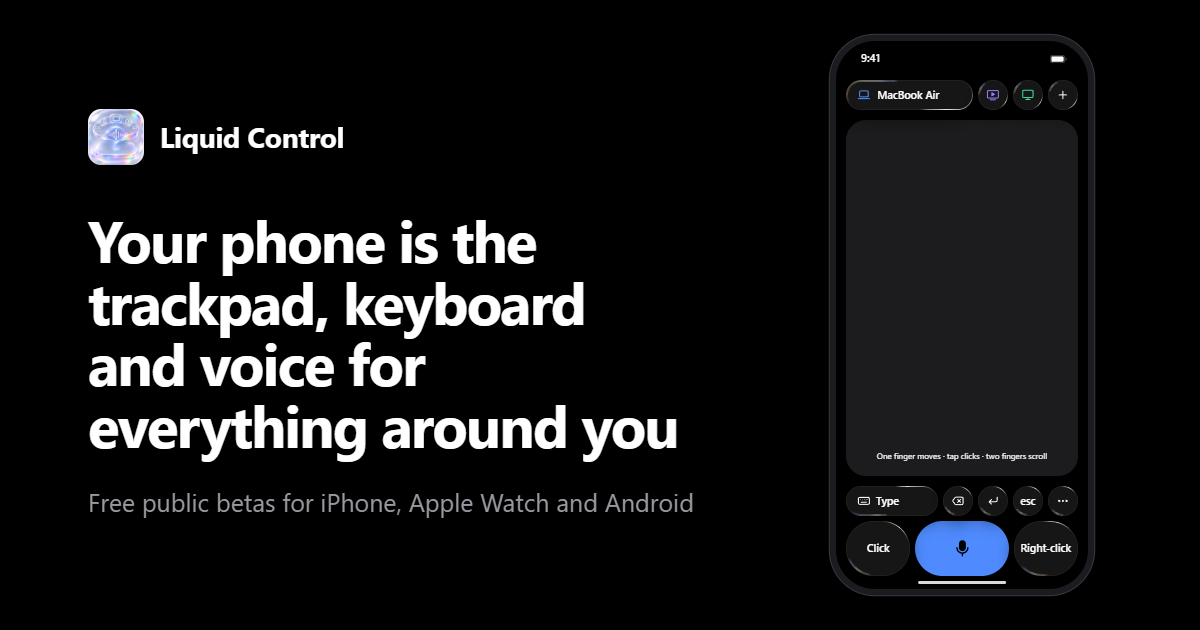
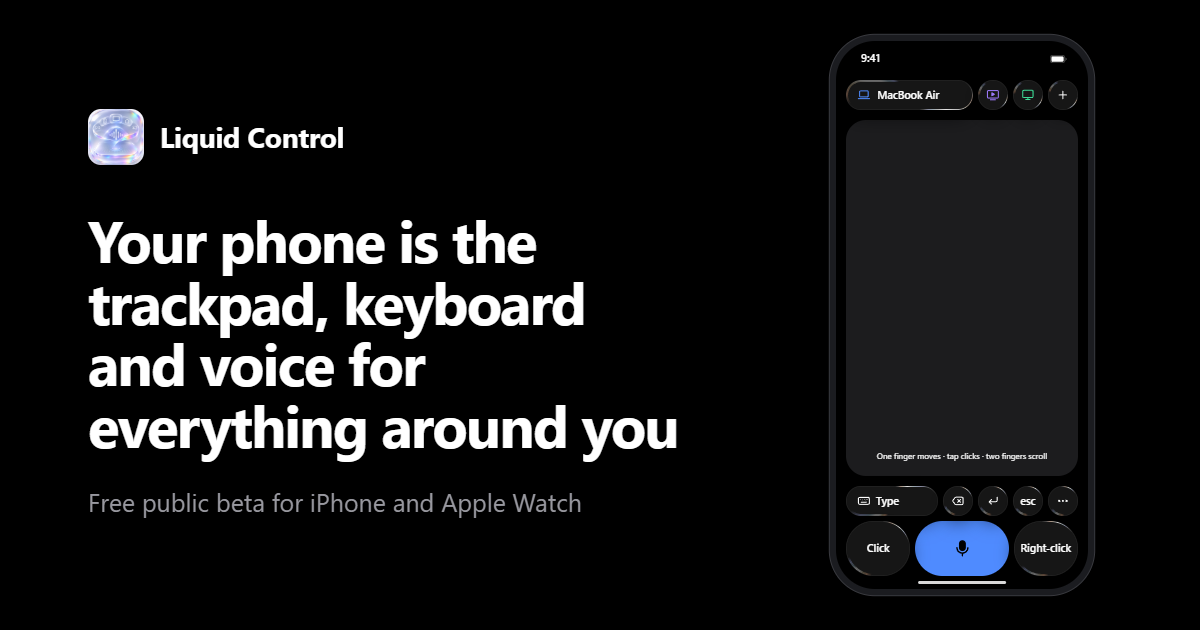
Android: coming soon
The Android app is being rebuilt to match the iPhone app, so the site no longer offers the old beta APK. Home, Get it,
Support, the README and the bug form say Android is coming soon, on Google Play and as a download here; the social
image says "Free public beta for iPhone and Apple Watch". The Mac steps speak to the iPhone only.

Claude-Session: https://claude.ai/code/session_01P3YxnynXQDU9c833TjPn7V

Changed region(s): [[0.2158, 0.7841, 0.5858, 0.8143]]

diff --git a/get/index.html b/get/index.html
@@ -3,15 +3,15 @@
 <head>
   <meta charset="utf-8">
   <meta name="viewport" content="width=device-width, initial-scale=1, viewport-fit=cover">
-  <title>Get Liquid Control: the iPhone, Apple Watch and Android betas</title>
-  <meta name="description" content="Every download and link for Liquid Control: the iPhone and Apple Watch beta on TestFlight, the Android beta, your Mac, PC, iPad and TV, and the Stick waitlist.">
+  <title>Get Liquid Control: the iPhone and Apple Watch beta</title>
+  <meta name="description" content="Every download and link for Liquid Control: the iPhone and Apple Watch beta on TestFlight, how to pair your Mac, PC, iPad and TV, and what’s coming: Android and the Stick.">
   <meta name="color-scheme" content="light dark">
   <meta name="theme-color" content="#F2F2F7" media="(prefers-color-scheme: light)">
   <meta name="theme-color" content="#000000" media="(prefers-color-scheme: dark)">
   <meta property="og:type" content="website">
   <meta property="og:site_name" content="Liquid Control">
   <meta property="og:title" content="Get Liquid Control">
-  <meta property="og:description" content="The iPhone and Apple Watch beta, the Android beta, and how to pair your Mac, PC, iPad and TV.">
+  <meta property="og:description" content="The iPhone and Apple Watch beta, and how to pair your Mac, PC, iPad and TV.">
   <meta property="og:url" content="https://saitokiku.github.io/liquid-control/get/">
   <meta property="og:image" content="https://saitokiku.github.io/liquid-control/assets/og.png">
   <meta name="twitter:card" content="summary_large_image">
@@ -66,27 +66,12 @@
 
       <section class="get-item card glass" id="android" aria-labelledby="android-title">
         <div class="get-title">
-          <p class="eyebrow">Beta 1 · 0.1.0-beta.1</p>
+          <p class="eyebrow">Coming soon</p>
           <h2 id="android-title">Android</h2>
         </div>
         <div class="get-body">
-          <p>Liquid Control for Android works as a Bluetooth keyboard and trackpad for computers, tablets and TVs,
-            over Bluetooth Classic or LE. It needs Android 12 or newer.</p>
-          <p>Not in this beta yet: voice, TVs over Wi-Fi, the Stick, and the link to Liquid Control for Mac.</p>
-          <div class="actions">
-            <a class="btn btn-primary" href="https://github.com/saitokiku/liquid-control/releases/download/android-v0.1.0-beta.1/liquid-control-android-0.1.0-beta.1.apk">Download the APK</a>
-          </div>
-          <p class="sha">SHA-256: <code id="apk-sha256">published with the release</code></p>
-          <h3>Install it</h3>
-          <ol class="steps">
-            <li>Open this page on your Android phone and tap Download the APK.</li>
-            <li>Open the downloaded file. If Android asks, allow your browser to install apps, then tap Install.</li>
-            <li>Google Play Protect may warn that the app comes from an unknown developer, because the beta doesn’t
-              come from Google Play. You can still choose to install it.</li>
-            <li>Open Liquid Control, then pair your phone from the Bluetooth settings of your computer, tablet or TV.</li>
-          </ol>
-          <h3>Update it</h3>
-          <p>Download the new APK and install it over this one.</p>
+          <p>Liquid Control for Android is coming soon, for Android 12 or newer. It will be on Google Play, and here as
+            a download for phones without Google Play.</p>
         </div>
       </section>
 
@@ -99,9 +84,9 @@
           <p>Your Mac pairs with your phone over Bluetooth, like a PC, as a keyboard and trackpad. There’s nothing to
             install.</p>
           <ol class="steps">
-            <li>On iPhone, open Liquid Control and tap +, then Mac. On Android, open Liquid Control.</li>
-            <li>On the Mac, open System Settings → Bluetooth and connect your phone. An iPhone shows up as
-              “Liquid Control” and a four-character code; an Android phone, by its own name.</li>
+            <li>On your iPhone, open Liquid Control and tap +, then Mac.</li>
+            <li>On the Mac, open System Settings → Bluetooth and connect your iPhone. It shows up as “Liquid Control”
+              and a four-character code.</li>
           </ol>
           <p><strong>Liquid Control for Mac:</strong> coming soon.</p>
         </div>

diff --git a/index.html b/index.html
@@ -4,7 +4,7 @@
   <meta charset="utf-8">
   <meta name="viewport" content="width=device-width, initial-scale=1, viewport-fit=cover">
   <title>Liquid Control: the trackpad, keyboard and voice for everything around you</title>
-  <meta name="description" content="Liquid Control turns your iPhone, Apple Watch or Android phone into the trackpad, keyboard and remote for your Mac, PC, iPad and TV. Free public betas for iPhone and Android.">
+  <meta name="description" content="Liquid Control turns your iPhone or Apple Watch into the trackpad, keyboard and remote for your Mac, PC, iPad and TV. Free public beta on TestFlight; Android is coming soon.">
   <meta name="color-scheme" content="light dark">
   <meta name="theme-color" content="#F2F2F7" media="(prefers-color-scheme: light)">
   <meta name="theme-color" content="#000000" media="(prefers-color-scheme: dark)">
@@ -42,17 +42,16 @@
   <main id="main">
     <section class="hero wrap" aria-labelledby="hero-title">
       <div class="hero-copy">
-        <p class="eyebrow">Free public betas for iPhone, Apple Watch and Android</p>
+        <p class="eyebrow">Free public beta for iPhone and Apple Watch</p>
         <h1 id="hero-title">Your phone is the trackpad, keyboard and voice for everything around you</h1>
-        <p class="lede">Liquid Control turns your iPhone, Apple Watch or Android phone into the trackpad, keyboard and
-          remote for your Mac, PC, iPad and TV. One tap switches between them, and there’s nothing to install on most
-          devices.</p>
+        <p class="lede">Liquid Control turns your iPhone or Apple Watch into the trackpad, keyboard and remote for your
+          Mac, PC, iPad and TV. One tap switches between them, and there’s nothing to install on most devices.</p>
         <div class="actions">
           <a class="btn btn-primary" href="get/#iphone">Join the iPhone beta</a>
-          <a class="btn glass" href="get/#android">Android beta</a>
+          <a class="btn glass" href="get/#android">Android: coming soon</a>
         </div>
-        <p class="fine">iPhone and Apple Watch: on TestFlight, iOS 17 or later. Android: Android 12 or newer, a
-          Bluetooth keyboard and trackpad for now.</p>
+        <p class="fine">On TestFlight, for iOS 17 or later. Liquid Control for Android, for Android 12 or newer, is
+          coming soon.</p>
       </div>
 
       <div class="hero-art">
@@ -109,8 +108,7 @@
     <section class="section wrap" id="features" aria-labelledby="features-title">
       <div class="section-head">
         <h2 id="features-title">Everything within reach of your thumbs</h2>
-        <p>This is what the iPhone and Apple Watch app does today. The Android beta starts with the keyboard and
-          trackpad.</p>
+        <p>This is what the iPhone and Apple Watch app does today. The Android app is coming soon.</p>
       </div>
       <div class="grid">
         <article class="card glass">
@@ -194,10 +192,10 @@
           <div class="actions"><a class="btn btn-primary" href="get/#iphone">Join the beta</a></div>
         </article>
         <article class="card glass get-card">
-          <p class="eyebrow">Beta</p>
+          <p class="eyebrow">Coming soon</p>
           <h3>Android</h3>
-          <p>A Bluetooth keyboard and trackpad for computers, tablets and TVs. Android 12 or newer.</p>
-          <div class="actions"><a class="btn glass" href="get/#android">Get the beta</a></div>
+          <p>Liquid Control for Android 12 or newer: on Google Play, and as a download here.</p>
+          <div class="actions"><a class="btn glass" href="get/#android">Learn more</a></div>
         </article>
         <article class="card glass get-card">
           <p class="eyebrow">Works now</p>

diff --git a/support/index.html b/support/index.html
@@ -53,8 +53,7 @@
         </article>
         <article class="card glass" id="which">
           <h3>Which entry in the Bluetooth list is my phone?</h3>
-          <p>An iPhone shows up as “Liquid Control” and a four-character code of its own, like “Liquid Control 3F2A”.
-            An Android phone shows up by its own Bluetooth name.</p>
+          <p>Your iPhone shows up as “Liquid Control” and a four-character code of its own, like “Liquid Control 3F2A”.</p>
         </article>
         <article class="card glass" id="mac">
           <h3>How do I use it with a Mac?</h3>
@@ -68,9 +67,9 @@
             <a href="../get/#stick">get notified</a>.</p>
         </article>
         <article class="card glass" id="android">
-          <h3>Android: Bluetooth Classic or LE?</h3>
-          <p>Liquid Control for Android pairs as a Classic Bluetooth keyboard and mouse. To use Bluetooth LE
-            instead, turn on “Bluetooth LE (instead of Classic)” in its Settings.</p>
+          <h3>Is there an Android app?</h3>
+          <p>It’s coming soon, for Android 12 or newer: on Google Play, and as a download from
+            <a href="../get/#android">Get it</a>.</p>
         </article>
         <article class="card glass" id="private">
           <h3>What stays private?</h3>

diff --git a/README.md b/README.md
@@ -2,8 +2,9 @@
 
 The website of Liquid Control, at https://saitokiku.github.io/liquid-control/.
 
-Liquid Control turns your iPhone, Apple Watch or Android phone into the trackpad, keyboard and remote for your Mac, PC,
-iPad and TV. This repository holds the site and, in its Releases, the downloads. The apps' source code is private.
+Liquid Control turns your iPhone or Apple Watch into the trackpad, keyboard and remote for your Mac, PC, iPad and TV;
+Android is coming soon. This repository holds the site and, in its Releases, the downloads. The apps' source code is
+private.
 
 - Get it: https://saitokiku.github.io/liquid-control/get/
 - Support and questions: https://github.com/saitokiku/liquid-control/issues/new/choose (issues are public)
